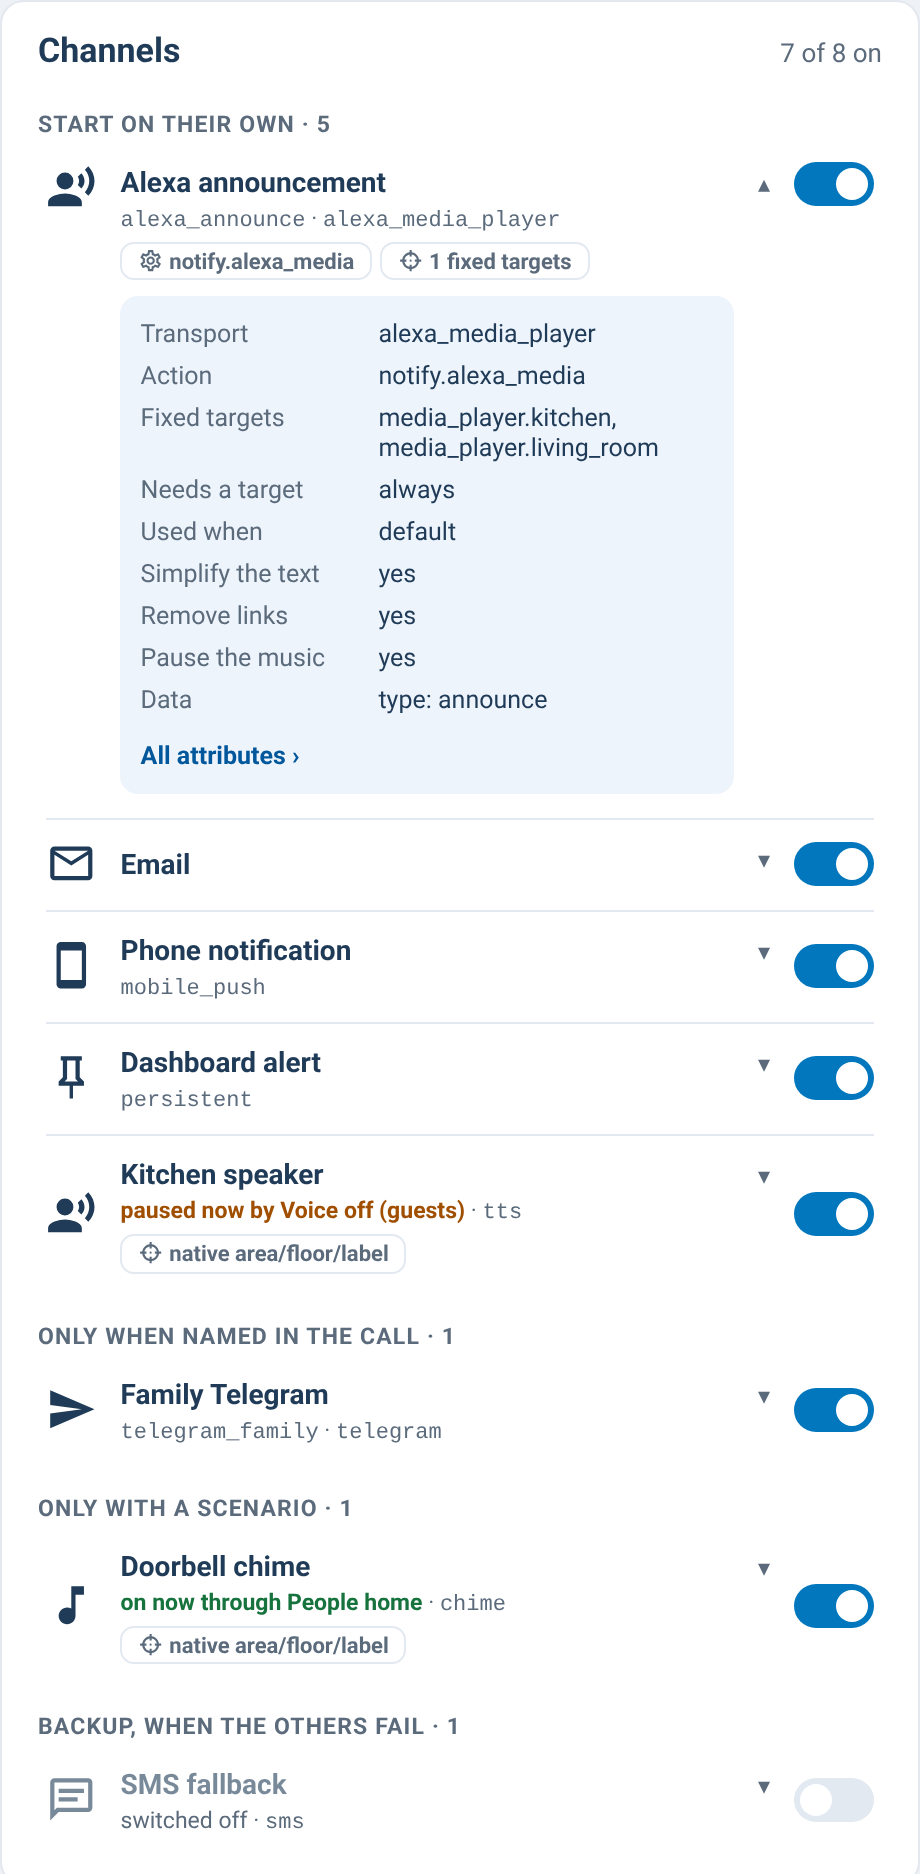
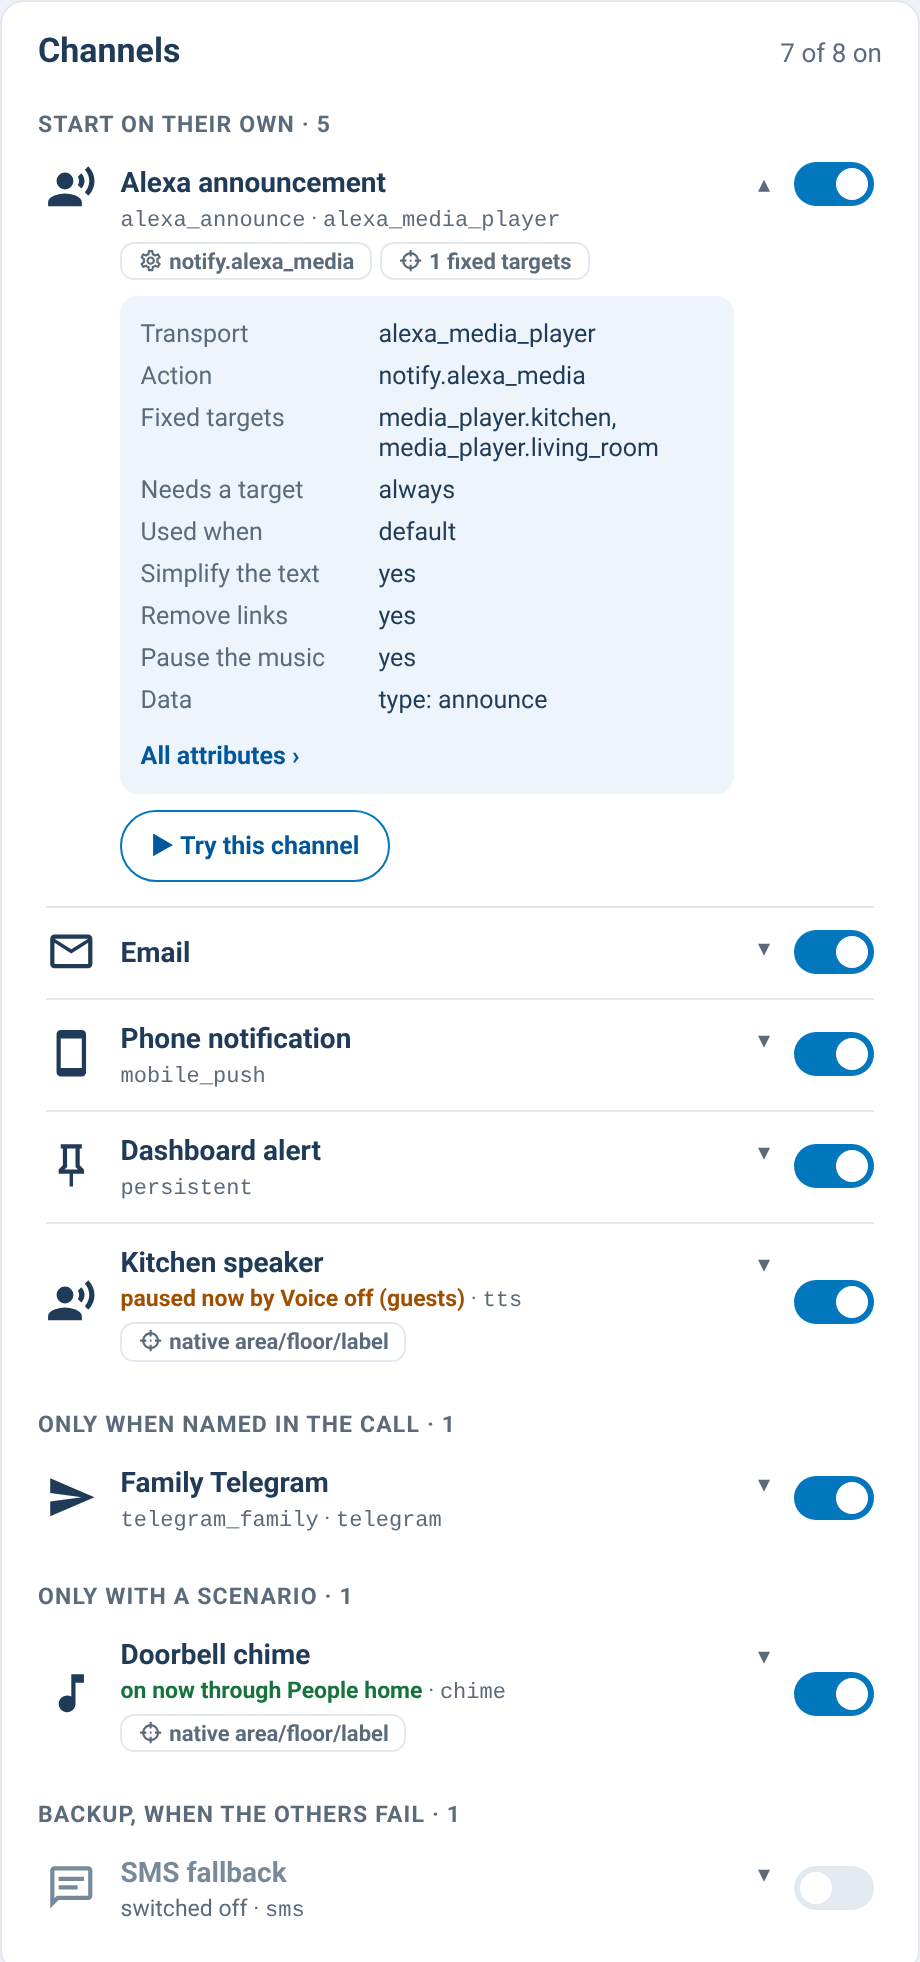
v0.66.0: scenario why + what changes, try a channel, active scenarios from SuperNotify first
Claude-Session: https://claude.ai/code/session_01ALt6dhzSXi9QkgiwPM6yvM

diff --git a/dist/supernotify-control-card.js b/dist/supernotify-control-card.js
@@ -8,6 +8,12 @@
  * Example config: see README.md
  *
  * CHANGELOG
+ * 2026-10-04 - v0.66.0. (1) Active scenarios: SuperNotify's own list (enquire_active_scenarios)
+ *   first in control and overview too - from 2.12.1 the binary_sensors stay "unknown" unless
+ *   scenario_control.refresh is on. (2) deliveries 0.28.0: "Try this channel" in the detail - a dry
+ *   run through that channel only. (3) scenarios 0.27.0: a tap opens why it applies or not (each
+ *   condition with its result, from enquire_active_scenarios trace: true) and "What changes if it
+ *   applies / without it" (two dry runs compared); "All attributes" opens HA's dialog.
  * 2026-10-04 - v0.65.0. Cards linked, fewer repeats. (1) The cards on a page know each other
  *   (snCards, snGo, snFlash): in the overview, transports with errors open the transports card on
  *   those rows, channels off the channels card, a pause the control card's pause panel, a person
@@ -453,7 +459,7 @@
  *   Backup of the pre-change file: X:\sn_backups\supernotify_cards_20260908\supernotify-control-card_pre_toggle.js
  */
 
-const VERSION = "0.65.0"; // bundle / HACS release
+const VERSION = "0.66.0"; // bundle / HACS release
 
 /**
  * Per-card versions: bumped ONLY when that card changes (the bundle VERSION
@@ -464,13 +470,13 @@ const VERSION = "0.65.0"; // bundle / HACS release
  * without a bump here.
  */
 const SN_CARD_VERSIONS = {
-  control: "0.34.0",
-  overview: "0.32.0",
+  control: "0.34.1",
+  overview: "0.32.1",
   bands: "0.20.2",
-  deliveries: "0.28.0",
+  deliveries: "0.29.0",
   transports: "0.25.0",
   recipients: "0.28.0",
-  scenarios: "0.27.0",
+  scenarios: "0.28.0",
   simulator: "0.16.0",
   composer: "0.22.0",
   automations: "0.20.3",
@@ -585,7 +591,16 @@ const SN_STRINGS = {
     snz_voice_info: "Your pauses go through SuperNotify's voice commands: they are yours only.",
     snz_voice_off: "SuperNotify's voice commands are off: turn them on in the integration options.",
     snz_resume_mine: "Resume mine",
-    go_open: "Show", sim_hint_dry: "SuperNotify's own answer (dry run, nothing is sent): a notification now, with the priority and only the scenarios picked above.",
+    go_open: "Show",
+    dl_probe: "Try this channel", probe_msg: "Channel test from the dashboard",
+    sc_why: "Why", sc_yes: "Applies now", sc_no: "Does not apply now", sc_manual_why: "Manual scenario: applied by hand",
+    sc_no_cond: "No conditions", sc_off_sw: "Switched off", sc_not_eval: "not checked", sc_now: "now",
+    sc_diff_btn_on: "What changes if it applies", sc_diff_btn_off: "What changes without it",
+    sc_diff_on: "If it applied, for a medium notification now:", sc_diff_off: "Without it, for a medium notification now:",
+    sc_diff_add: "would also send", sc_diff_rem: "would no longer send", sc_diff_none: "no difference",
+    c_state: "{e} is {s}", c_template: "template condition", c_time: "time", c_after: "after", c_before: "before",
+    c_numeric: "{e}", c_above: "above", c_below: "below", c_and: "all of these", c_or: "at least one of these", c_not: "none of these",
+    c_or_join: " or ", sim_hint_dry: "SuperNotify's own answer (dry run, nothing is sent): a notification now, with the priority and only the scenarios picked above.",
     sim_msg: "Simulator test", sim_prio: "Priority",
     sa_snooze: "{what} paused for {len}.", sa_silence: "{what} silenced until further notice.",
     sa_resume: "{what} back on.", sa_resume_one: "Pause over: {x}.", sa_resume_all: "Notifications back on.",
@@ -705,7 +720,16 @@ const SN_STRINGS = {
     snz_voice_info: "Le tue pause passano dai comandi vocali di SuperNotify: valgono solo per te.",
     snz_voice_off: "I comandi vocali di SuperNotify sono spenti: accendili nelle opzioni dell'integrazione.",
     snz_resume_mine: "Riprendi le mie",
-    go_open: "Mostra", sim_hint_dry: "Risposta vera di SuperNotify (prova senza inviare, non parte niente): una notifica adesso, con la priorità e solo gli scenari scelti sopra.",
+    go_open: "Mostra",
+    dl_probe: "Prova questo canale", probe_msg: "Prova del canale dalla dashboard",
+    sc_why: "Perché", sc_yes: "Attivo adesso", sc_no: "Non attivo adesso", sc_manual_why: "Scenario manuale: si attiva a mano",
+    sc_no_cond: "Nessuna condizione", sc_off_sw: "Spento con l'interruttore", sc_not_eval: "non valutata", sc_now: "ora",
+    sc_diff_btn_on: "Cosa cambia se si attiva", sc_diff_btn_off: "Cosa cambia senza",
+    sc_diff_on: "Se si attivasse, per una notifica media adesso:", sc_diff_off: "Senza questo scenario, per una notifica media adesso:",
+    sc_diff_add: "partirebbe anche", sc_diff_rem: "non partirebbe più", sc_diff_none: "nessuna differenza",
+    c_state: "{e} è {s}", c_template: "condizione con modello", c_time: "orario", c_after: "dopo le", c_before: "prima delle",
+    c_numeric: "{e}", c_above: "sopra", c_below: "sotto", c_and: "tutte vere", c_or: "almeno una vera", c_not: "nessuna vera",
+    c_or_join: " o ", sim_hint_dry: "Risposta vera di SuperNotify (prova senza inviare, non parte niente): una notifica adesso, con la priorità e solo gli scenari scelti sopra.",
     sim_msg: "Prova dal simulatore", sim_prio: "Priorità",
     sa_snooze: "{what} in pausa per {len}.", sa_silence: "{what} in silenzio fino a nuovo ordine.",
     sa_resume: "{what} di nuovo attive.", sa_resume_one: "Pausa finita: {x}.", sa_resume_all: "Notifiche di nuovo attive.",
@@ -818,6 +842,15 @@ function snVer(config, kind, p) {
 /** Active scenarios from the binary_sensors (with snScenarioActive), null when not exposed. */
 function snActiveScenarioIds(hass) {
   if (!hass) return null;
+  // 0.66.0: SuperNotify's own answer first - from 2.12.1 the binary_sensors stay "unknown" unless
+  // scenario_control.refresh is on
+  snActiveEnsure(hass);
+  if (snActive.names) {
+    return [...snActive.names].filter((n) => {
+      const sw = hass.states[`switch.supernotify_scenario_${n}`];
+      return !sw || sw.state !== "off";
+    }).map((n) => `binary_sensor.supernotify_scenario_${n}`);
+  }
   const ids = Object.keys(hass.states).filter((e) => e.startsWith("binary_sensor.supernotify_scenario_"));
   if (!ids.length) return null;
   const known = ids.filter((e) => !["unknown", "unavailable"].includes(hass.states[e].state));
@@ -1001,6 +1034,77 @@ function snDryHtml(hass, T, doc, noDupeCheck) {
   h += `<div class="dMeta">${meta.join(" · ")}</div>`;
   if (noDupeCheck) h += `<div class="dMeta">ℹ ${T.dry_no_dupe}</div>`;
   h += `<details class="dMeta"><summary>${T.dry_raw}</summary><pre>${esc(JSON.stringify(doc, null, 2))}</pre></details>`;
+  return h;
+}
+
+/* ── 0.66.0: dry runs from any card ── */
+function snDryAvailable(hass, config) {
+  if (config && config.dry_run === false) return false;
+  const svc = hass && hass.services && hass.services.supernotify;
+  return !!(svc && svc.notify && svc.notify.response);
+}
+
+/** supernotify.notify with dry_run: simulate (nothing is sent, no duplicate check) -> the notification. */
+async function snDryRun(hass, data) {
+  const r = await hass.callWS({ type: "call_service", domain: "supernotify", service: "notify",
+    service_data: { priority: "medium", ...data, dry_run: "simulate", force_resend: true }, return_response: true });
+  return (r && r.response) || {};
+}
+
+/** Channels a dry run would send through. */
+function snDrySending(doc) {
+  const out = new Set();
+  for (const [name, res] of Object.entries((doc && doc.deliveries) || {})) {
+    if (res && Array.isArray(res.success) && res.success.length) out.add(name);
+  }
+  return out;
+}
+
+/** One condition of a scenario, in words. */
+function snCondText(hass, c, T) {
+  if (!c || typeof c !== "object") return String(c);
+  const name = (id) => (hass.states[id] && hass.states[id].attributes && hass.states[id].attributes.friendly_name) || String(id);
+  const ents = [].concat(c.entity_id || []).map(name).join(", ");
+  const t = c.condition;
+  if (t === "state") return T.c_state.replace("{e}", ents).replace("{s}", [].concat(c.state).join(T.c_or_join));
+  if (t === "numeric_state") return [T.c_numeric.replace("{e}", ents), c.above != null ? `${T.c_above} ${c.above}` : "", c.below != null ? `${T.c_below} ${c.below}` : ""].filter(Boolean).join(" ");
+  const hm = (v) => String(v).replace(/^(\d{1,2}:\d{2}):00$/, "$1");
+  if (t === "time") return [T.c_time, c.after ? `${T.c_after} ${hm(c.after)}` : "", c.before ? `${T.c_before} ${hm(c.before)}` : "", c.weekday ? [].concat(c.weekday).join(", ") : ""].filter(Boolean).join(" ");
+  if (t === "template") return T.c_template;
+  if (t === "and" || t === "or" || t === "not") return T["c_" + t];
+  return String(t || "?");
+}
+
+/**
+ * Why a scenario applies or not (0.66.0), from enquire_active_scenarios trace: true - each condition
+ * with its result; for a state condition also the state it has now. Paths as HA traces write them:
+ * condition/conditions/condition/<i>[/conditions/<j>][/entity_id/0].
+ */
+function snScenarioWhyHtml(hass, T, sc, active) {
+  const esc = snEsc;
+  if (!sc) return "";
+  const tr = (sc.trace && sc.trace.trace) || {};
+  const res = (p) => { const v = tr[p]; const last = Array.isArray(v) && v.length ? v[v.length - 1] : null; return last && last.result ? last.result : null; };
+  const line = (c, path, depth) => {
+    const r = res(path);
+    const ok = r ? r.result === true : null;
+    const now = c && c.condition === "state" ? res(path + "/entity_id/0") : null;
+    const icon = ok === true ? "✔" : ok === false ? "✖" : "–";
+    const extra = ok === null ? ` <span class="wq">(${esc(T.sc_not_eval)})</span>`
+      : (ok === false && now && now.state != null ? ` <span class="wq">(${esc(T.sc_now)}: ${esc(now.state)})</span>` : "");
+    return `<div class="wl ${ok === true ? "y" : ok === false ? "n" : "q"}" style="padding-left:${depth * 16}px">${icon} ${esc(snCondText(hass, c, T))}${extra}</div>`;
+  };
+  const conds = Array.isArray(sc.conditions) ? sc.conditions : sc.conditions ? [sc.conditions] : [];
+  let h = `<div class="wh">${esc(active ? T.sc_yes : T.sc_no)}</div>`;
+  if (sc.enabled === false) h += `<div class="wl n">✖ ${esc(T.sc_off_sw)}</div>`;
+  if (!conds.length) h += `<div class="wl q">${esc(T.sc_no_cond)}</div>`;
+  conds.forEach((c, i) => {
+    const base = `condition/conditions/condition/${i}`;
+    h += line(c, base, 0);
+    if (c && Array.isArray(c.conditions) && ["and", "or", "not"].includes(c.condition)) {
+      c.conditions.forEach((cc, j) => { h += line(cc, `${base}/conditions/${j}`, 1); });
+    }
+  });
   return h;
 }
 
@@ -3872,6 +3976,10 @@ class SupernotifyDeliveriesCard extends SnCard {
         .grp .row:last-child { border-bottom: 0; }
         .row.dim .em, .row.dim .mid b { opacity: .6; }
         ${snDetailCss(p)}
+        ${snDryCss(p)}
+        .dprobe { margin: 6px 0 2px; border: 1.5px solid ${p.brand}; background: ${p.panel}; color: ${p.brandD}; border-radius: 999px;
+                  padding: 7px 14px; font: inherit; font-size: 12.5px; font-weight: 700; cursor: pointer; min-height: 36px; }
+        .dres { cursor: default; }
         .mid .tr { margin-top: 2px; }
         .st.warn { color: ${p.warn}; font-weight: 600; } .st.crit { color: ${p.crit}; font-weight: 600; }
         .st.ok { color: ${p.ok}; font-weight: 600; }
@@ -3911,6 +4019,21 @@ class SupernotifyDeliveriesCard extends SnCard {
       (dl[name] && dl[name].enabled === false ? off : on).push(snScenarioName(this._hass, m[1]));
     }
     return { off, on };
+  }
+
+  /** 0.66.0: a dry run through this channel only - SuperNotify says if it would send, to whom, or why not. */
+  async _runProbe(name) {
+    const T = snT(this._config, this._hass);
+    this._probe = this._probe || {};
+    this._probe[name] = "…";
+    this._update();
+    try {
+      const doc = await snDryRun(this._hass, { message: T.probe_msg, delivery_selection: "fixed", delivery: { [name]: {} } });
+      this._probe[name] = snDryHtml(this._hass, T, doc, false);
+    } catch (e) {
+      this._probe[name] = `✖ ${snEsc((e && (e.message || e.code)) || e)}`;
+    }
+    this._update();
   }
 
   /** A link from another card (0.65.0): open these rows. */
@@ -3971,7 +4094,8 @@ class SupernotifyDeliveriesCard extends SnCard {
         ...Object.entries(d.a.options || {}).map(([k, v]) => [k, v, true]),
         [T.det_data, d.a.data && Object.keys(d.a.data).length ? d.a.data : undefined],
         [T.det_debug, d.a.debug ? true : undefined],
-      ], T, this._config, this._hass) : "";
+      ], T, this._config, this._hass) + (snDryAvailable(this._hass, this._config)
+        ? `<button class="dprobe" data-n="${esc(d.name)}">▶ ${esc(T.dl_probe)}</button>${this._probe && this._probe[d.name] ? `<div class="dryBox dres">${this._probe[d.name]}</div>` : ""}` : "") : "";
       return `<div class="row${d.on ? "" : " dim"}" data-i="${i}" aria-expanded="${open ? "true" : "false"}">
         <span class="em">${em}</span>
         <div class="mid"><b>${esc(alias || d.name)}</b>
@@ -4003,7 +4127,9 @@ class SupernotifyDeliveriesCard extends SnCard {
         if (e.target.closest(".sw")) return;
         const id = dels[+node.dataset.i].id;
         if (e.target.closest(".dmore")) { this._moreInfo(id); return; }
-        if (e.target.closest(".det")) return;
+        const pb = e.target.closest(".dprobe");
+        if (pb) { this._runProbe(pb.dataset.n); return; }
+        if (e.target.closest(".det") || e.target.closest(".dres")) return;
         this._open = this._open || new Set();
         if (this._open.has(id)) this._open.delete(id); else this._open.add(id);
         this._update();
@@ -4542,6 +4668,61 @@ class SupernotifyScenariosCard extends SnCard {
     return known.filter((s) => s.state === "on" && s.enabled).map((s) => s.name);
   }
 
+  /** enquire_active_scenarios with trace: true, read when a row opens (at most every 30 s). */
+  async _loadTrace() {
+    if (this._traceBusy || (this._traceAt && Date.now() - this._traceAt < 30000)) return;
+    this._traceBusy = true;
+    try {
+      const r = await snEnquire(this._hass, "enquire_active_scenarios", { trace: true });
+      const t = (r && r.response && r.response.trace) || [];
+      const map = {};
+      for (const list of [t[0] || [], t[1] || []]) for (const sc of list) if (sc && sc.name) map[sc.name] = sc;
+      this._trace = map;
+      this._traceAt = Date.now();
+    } catch (e) { this._trace = this._trace || {}; }
+    this._traceBusy = false;
+    if (this._rendered) this._update();
+  }
+
+  /** What a scenario changes: two dry runs, with and without it, compared channel by channel. */
+  async _runDiff(name, isAct) {
+    const T = snT(this._config, this._hass);
+    this._diff = this._diff || {};
+    this._diff[name] = "…";
+    this._update();
+    try {
+      const act = [...(snActive.names || [])];
+      const msg = { message: T.probe_msg };
+      const base = await snDryRun(this._hass, msg);
+      const other = isAct
+        ? await snDryRun(this._hass, { ...msg, constrain_scenarios: act.filter((n) => n !== name).length ? act.filter((n) => n !== name) : ["__none__"] })
+        : await snDryRun(this._hass, { ...msg, apply_scenarios: [name] });
+      const a = snDrySending(base), b = snDrySending(other);
+      const add = [...b].filter((x) => !a.has(x)), rem = [...a].filter((x) => !b.has(x));
+      const nm = (x) => snEsc(snDeliveryAlias(this._hass, x) || x);
+      this._diff[name] = `<div class="wh">${snEsc(isAct ? T.sc_diff_off : T.sc_diff_on)}</div>`
+        + add.map((x) => `<div class="wl y">+ ${snEsc(T.sc_diff_add)} ${nm(x)}</div>`).join("")
+        + rem.map((x) => `<div class="wl n">− ${snEsc(T.sc_diff_rem)} ${nm(x)}</div>`).join("")
+        + (add.length || rem.length ? "" : `<div class="wl q">${snEsc(T.sc_diff_none)}</div>`);
+    } catch (e) {
+      this._diff[name] = `✖ ${snEsc((e && (e.message || e.code)) || e)}`;
+    }
+    this._update();
+  }
+
+  _detailHtml(s, isAct) {
+    const T = snT(this._config, this._hass);
+    const esc = snEsc;
+    const sc = this._trace && this._trace[s.name];
+    let h = `<div class="det"><div class="dsec">${esc(T.sc_why)}</div>`;
+    h += s.manual ? `<div class="wl">${esc(T.sc_manual_why)}</div>` : sc ? snScenarioWhyHtml(this._hass, T, sc, isAct) : `<div class="wl q">…</div>`;
+    if (snDryAvailable(this._hass, this._config)) {
+      h += `<button class="sdiff" data-act="${isAct ? 1 : 0}">${esc(isAct ? T.sc_diff_btn_off : T.sc_diff_btn_on)}</button>`;
+      if (this._diff && this._diff[s.name]) h += `<div class="sdres">${this._diff[s.name]}</div>`;
+    }
+    return h + `<button class="dmore">${esc(T.det_more)} ›</button></div>`;
+  }
+
   /** A link from another card (0.65.0): outline these scenarios. */
   _focus(d) {
     const names = (d && d.names) || [];
@@ -4586,6 +4767,14 @@ class SupernotifyScenariosCard extends SnCard {
         .apb { flex-shrink: 0; border: 1.5px solid ${p.brand}; background: ${p.panel}; color: ${p.brandD}; border-radius: 999px;
                padding: 6px 12px; font: inherit; font-size: 12px; font-weight: 700; cursor: pointer; min-height: 32px; }
         .apb.on { background: ${p.ok}; border-color: ${p.ok}; color: #fff; }
+        ${snDetailCss(p)}
+        .det { cursor: default; }
+        .dsec { font-size: 11px; letter-spacing: .05em; text-transform: uppercase; font-weight: 800; color: ${p.muted}; margin-bottom: 4px; }
+        .wh { font-weight: 700; margin: 2px 0 4px; }
+        .wl { padding: 2px 0; } .wl.y { color: ${p.ok}; } .wl.n { color: ${p.crit}; } .wl.q, .wq { color: ${p.muted}; }
+        .sdiff { margin: 8px 0 2px; border: 1.5px solid ${p.brand}; background: ${p.panel}; color: ${p.brandD}; border-radius: 999px;
+                 padding: 7px 14px; font: inherit; font-size: 12.5px; font-weight: 700; cursor: pointer; min-height: 36px; }
+        .sdres { margin-top: 6px; }
         ${SN_SWITCH_CSS}
         ${SN_FLOW_CSS}
         .ver { text-align: right; font-size: 10px; color: ${p.muted}; margin-top: 8px; }
@@ -4626,11 +4815,12 @@ class SupernotifyScenariosCard extends SnCard {
       ? `<button class="apb${s.state === "on" ? " on" : ""}" data-id="${esc(s.bsId)}" data-on="${s.state === "on" ? 1 : 0}"
           aria-pressed="${s.state === "on"}" title="${esc(s.state === "on" ? T.apply_off : T.apply_now)}">${s.state === "on" ? "✔ " + esc(T.applied) : esc(T.apply_now.charAt(0).toUpperCase() + T.apply_now.slice(1))}</button>`
       : "";
-    return `<div class="row ${isAct ? "act" : ""} ${s.enabled === false ? "dis" : ""}" data-i="${i}" data-name="${esc(s.name)}">
+    return `<div class="row ${isAct ? "act" : ""} ${s.enabled === false ? "dis" : ""}" data-i="${i}" data-name="${esc(s.name)}" aria-expanded="${this._open && this._open.has(s.name) ? "true" : "false"}">
       <span class="em">${em}</span>
       <div class="mid"><b>${esc(alias || s.name)}</b>
         ${alias && !snSame(alias, s.name) ? `<span style="color:${p.muted}"> · ${snTech(s.name, alias)}</span>` : ""}
         <div class="tags">${tags.join("")}</div>
+        ${this._open && this._open.has(s.name) ? this._detailHtml(s, isAct) : ""}
       </div>
       ${isAct ? `<span class="badge b-act">${T.active_now}</span>` : ""}
       ${man}
@@ -4675,7 +4865,15 @@ class SupernotifyScenariosCard extends SnCard {
     rows.querySelectorAll(".row").forEach((node) => {
       node.onclick = (e) => {
         if (e.target.closest(".sw") || e.target.closest(".apb")) return;
-        this._moreInfo(all[+node.dataset.i].id);
+        const sc = all[+node.dataset.i];
+        // 0.66.0: a tap opens why it applies and what it changes; "All attributes" = HA's dialog
+        if (e.target.closest(".dmore")) { this._moreInfo(sc.id); return; }
+        const db = e.target.closest(".sdiff");
+        if (db) { this._runDiff(sc.name, db.dataset.act === "1"); return; }
+        if (e.target.closest(".det")) return;
+        this._open = this._open || new Set();
+        if (this._open.has(sc.name)) this._open.delete(sc.name); else { this._open.add(sc.name); this._loadTrace(); }
+        this._update();
       };
     });
     // the manual scenario's binary_sensor: SuperNotify applies the scenario while it is on

diff --git a/CHANGELOG.md b/CHANGELOG.md
@@ -3,6 +3,23 @@
 All notable changes to **supernotify-control-card** are documented here.
 Format based on [Keep a Changelog](https://keepachangelog.com/en/1.1.0/).
 
+## [0.66.0] - 2026-10-04
+
+Why a scenario applies, what it changes, and a test for each channel.
+
+### Added
+- scenarios-card: **tap a scenario** to see **why it applies or not** - each condition with its result
+  and, for a state that does not match, the state it has now (`enquire_active_scenarios` with
+  `trace: true`) - and **What changes if it applies / without it**: two dry runs compared, the channels
+  that would be added or dropped. "All attributes" opens Home Assistant's dialog.
+- deliveries-card: **Try this channel** in the detail of a channel: a dry run through that channel only,
+  with who would receive it or why it would not send (SuperNotify 2.12+).
+
+### Changed
+- control-card / overview-card: active scenarios come from SuperNotify's own list first. Ready for
+  SuperNotify 2.12.1, whose scenario `binary_sensor`s stay `unknown` unless `scenario_control.refresh`
+  is on.
+
 ## [0.65.0] - 2026-10-04
 
 The cards are linked to each other, and things are no longer repeated.

diff --git a/docs/cards/scenarios.md b/docs/cards/scenarios.md
@@ -20,3 +20,12 @@ groups:
     scenarios: [early_morning, morning, afternoon, evening, night, late_night]
 # scenarios not listed fall into an "Other" group
 ```
+
+**Why it applies, and what it changes** (0.66.0): tap a scenario. The detail lists its conditions, each
+with its result (✔ / ✖, or *not checked* when an earlier one already decided), and for a state that does
+not match the state it has now - from `enquire_active_scenarios` with `trace: true`. **What changes if it
+applies** (or **without it**, for an active one) runs two dry runs, without and with the scenario, and lists
+the channels that would be added or dropped for a medium notification now (SuperNotify 2.12+).
+**All attributes ›** opens Home Assistant's dialog.
+
+<img src="../images/scenarios_why.png" alt="scenario detail: why and what changes" width="420">

diff --git a/docs/cards/deliveries.md b/docs/cards/deliveries.md
@@ -28,3 +28,7 @@ style: theme
 
 To undo the changes made by hand (all, or only channels, transports…) use the
 [tools card](tools.md) (0.65.0: the button left this card).
+
+**Try this channel** (0.66.0, SuperNotify 2.12+): in a channel's detail, a dry run through that channel
+only - nothing is sent - says whether it would send now and to whom, or why not (snoozed, off,
+no usable target…).
